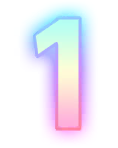
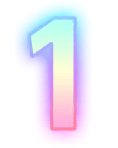
Play combo digits with the official pop and AP 1 padding.
OnCount scales ComboCount from Combo_anim; OnFire overlays hundreds. The AP 1
skin is rebuilt from the official atlas textureRectOffset inside the 118×148 slot.

Changed region(s): [[0.178, 0.1081, 0.5085, 0.8919], [0.6102, 0.0811, 0.7627, 0.8919]]

diff --git a/ui/src/regions/preview/playback_preview.cpp b/ui/src/regions/preview/playback_preview.cpp
@@ -4462,8 +4462,12 @@ void PlaybackPreviewView::draw_combo(DrawBatch& batch, const PreviewSnapshot& sn
     }
   }
 
+  using wds::chart_render::kOpenWdsComboCountAnimDuration;
+  using wds::chart_render::kOpenWdsComboCountPivotX;
+  using wds::chart_render::kOpenWdsComboCountPivotY;
   using wds::chart_render::kOpenWdsComboDigitH;
   using wds::chart_render::kOpenWdsComboDigitW;
+  using wds::chart_render::kOpenWdsComboFireAnimDuration;
   using wds::chart_render::kOpenWdsComboHeight;
   using wds::chart_render::kOpenWdsComboLabelH;
   using wds::chart_render::kOpenWdsComboLabelW;
@@ -4473,40 +4477,83 @@ void PlaybackPreviewView::draw_combo(DrawBatch& batch, const PreviewSnapshot& sn
   using wds::chart_render::kOpenWdsHudRefHeight;
   using wds::chart_render::kOpenWdsHudRefWidth;
   using wds::chart_render::openwds_canvas_map;
+  using wds::chart_render::openwds_combo_count_scale;
   using wds::chart_render::openwds_combo_digit_xs;
+  using wds::chart_render::openwds_combo_fire_alpha;
+  using wds::chart_render::openwds_combo_fire_scale;
+  using wds::chart_render::openwds_scale_about;
 
   const auto& content = geometry_.content();
   const auto canvas = openwds_canvas_map(content.l, content.r, content.b, content.t);
   const float combo_right = canvas.x(kOpenWdsHudRefWidth + kOpenWdsComboPosX);
   const float combo_bottom = canvas.y(0.5f * kOpenWdsHudRefHeight + kOpenWdsComboPosY);
-  const float combo_top = combo_bottom + canvas.scale * kOpenWdsComboHeight;
-  const float combo_left = combo_right - canvas.scale * kOpenWdsComboWidth;
+  const float combo_h = canvas.scale * kOpenWdsComboHeight;
+  const float combo_w = canvas.scale * kOpenWdsComboWidth;
+  const float combo_top = combo_bottom + combo_h;
+  const float combo_left = combo_right - combo_w;
   const float digit_w = canvas.scale * kOpenWdsComboDigitW;
   const float digit_h = canvas.scale * kOpenWdsComboDigitH;
   const float label_w = canvas.scale * kOpenWdsComboLabelW;
   const float label_h = canvas.scale * kOpenWdsComboLabelH;
+  // ComboCount pivot (0.5, 0.5) of the Combo root rect. Combo_anim scales this
+  // transform; ComboLabel is a sibling and stays unscaled.
+  const float pivot_x = combo_left + kOpenWdsComboCountPivotX * combo_w;
+  const float pivot_y = combo_bottom + kOpenWdsComboCountPivotY * combo_h;
 
-  int digits = 1;
-  for (int32_t n = snapshot.combo_count; n >= 10 && digits < 4; n /= 10) {
-    ++digits;
-  }
-  int xs_n = 0;
-  const float* xs = openwds_combo_digit_xs(digits, xs_n);
+  auto draw_digits = [&](int32_t number, float sx, float sy, float a, float z) {
+    int digits = 1;
+    for (int32_t n = number; n >= 10 && digits < 4; n /= 10) {
+      ++digits;
+    }
+    int xs_n = 0;
+    const float* xs = openwds_combo_digit_xs(digits, xs_n);
+    int32_t remaining = number;
+    for (int i = 0; i < xs_n; ++i) {
+      const int digit = remaining % 10;
+      remaining /= 10;
+      const float right = combo_right + canvas.scale * xs[i];
+      const float left = right - digit_w;
+      float x0 = left;
+      float y0 = combo_bottom;
+      float x1 = left;
+      float y1 = combo_bottom + digit_h;
+      float x2 = right;
+      float y2 = combo_bottom + digit_h;
+      float x3 = right;
+      float y3 = combo_bottom;
+      openwds_scale_about(pivot_x, pivot_y, sx, sy, x0, y0);
+      openwds_scale_about(pivot_x, pivot_y, sx, sy, x1, y1);
+      openwds_scale_about(pivot_x, pivot_y, sx, sy, x2, y2);
+      openwds_scale_about(pivot_x, pivot_y, sx, sy, x3, y3);
+      Quad q{{x0, y0}, {x1, y1}, {x2, y2}, {x3, y3}};
+      batch.add_sprite(skin_.combo_ap_digit[digit], q, z, a);
+    }
+  };
 
-  int32_t remaining = snapshot.combo_count;
   const float alpha = config_.combo_alpha;
   constexpr float kZ = 0.98f;
-  for (int i = 0; i < xs_n; ++i) {
-    const int digit = remaining % 10;
-    remaining /= 10;
-    const float right = combo_right + canvas.scale * xs[i];
-    const float left = right - digit_w;
-    Quad q{{left, combo_bottom},
-           {left, combo_bottom + digit_h},
-           {right, combo_bottom + digit_h},
-           {right, combo_bottom}};
-    batch.add_sprite(skin_.combo_ap_digit[digit], q, kZ, alpha);
+  const double now_sec = preview_now_sec(snapshot);
+
+  // ComboCountPer100 is drawn under ComboCount (Combo.prefab sibling order).
+  if (snapshot.combo_count >= 100 && snapshot.last_combo_fire_ms >= 0) {
+    const float fire_age =
+        static_cast<float>(now_sec - static_cast<double>(snapshot.last_combo_fire_ms) / 1000.0);
+    if (fire_age >= 0.0f && fire_age < kOpenWdsComboFireAnimDuration) {
+      const auto fire_s = openwds_combo_fire_scale(fire_age);
+      const float fire_a = openwds_combo_fire_alpha(fire_age) * alpha;
+      if (fire_a > 0.001f) {
+        draw_digits((snapshot.combo_count / 100) * 100, fire_s.x, fire_s.y, fire_a, kZ - 0.001f);
+      }
+    }
   }
+
+  float count_age = kOpenWdsComboCountAnimDuration;
+  if (snapshot.last_judge_ms >= 0) {
+    count_age =
+        static_cast<float>(now_sec - static_cast<double>(snapshot.last_judge_ms) / 1000.0);
+  }
+  const auto count_s = openwds_combo_count_scale(count_age);
+  draw_digits(snapshot.combo_count, count_s.x, count_s.y, alpha, kZ);
 
   const float label_cx = 0.5f * (combo_left + combo_right);
   const float label_left = label_cx - 0.5f * label_w;

diff --git a/chart-render/include/wds/chart_render/openwds_hud_layout.hpp b/chart-render/include/wds/chart_render/openwds_hud_layout.hpp
@@ -28,6 +28,129 @@ inline constexpr float kOpenWdsComboDigitXs2[] = {-92.0f, -184.0f};
 inline constexpr float kOpenWdsComboDigitXs3[] = {-46.0f, -138.0f, -230.0f};
 inline constexpr float kOpenWdsComboDigitXs4[] = {0.0f, -92.0f, -184.0f, -276.0f};
 
+// ComboCount / ComboCountPer100 stretch-fill Combo root; scale about this pivot.
+// Combo.prefab ComboCount m_Pivot (0.5, 0.5). ComboLabel is a sibling — do not scale it.
+inline constexpr float kOpenWdsComboCountPivotX = 0.5f;
+inline constexpr float kOpenWdsComboCountPivotY = 0.5f;
+
+// Combo_animator Count Layer: Any State → Combo_anim on OnCount
+// (transition duration 0, CanTransitionToSelf 1). Clip LoopTime 0, StopTime 10/60.
+// Keys: Assets/Resources/Animation/Game/Combo_anim.anim Scale ComboCount.
+inline constexpr float kOpenWdsComboCountAnimDuration = 0.16666667f;
+
+// Combo_animator Base Layer: Any State → Combo_countper100_anim on OnFire
+// when combo/100 changes. Clip LoopTime 0, StopTime 0.25.
+// Keys: Assets/Resources/Animation/Game/Combo_countper100_anim.anim.
+inline constexpr float kOpenWdsComboFireAnimDuration = 0.25f;
+
+struct OpenWdsAnimKey {
+  float t = 0.0f;
+  float v = 0.0f;
+  float in_s = 0.0f;
+  float out_s = 0.0f;
+};
+
+struct OpenWdsComboScale {
+  float x = 1.0f;
+  float y = 1.0f;
+};
+
+// Unity 2022.3 AnimationCurve cubic Hermite (slopes are dValue/dTime).
+// https://docs.unity3d.com/2022.3/Documentation/Manual/animeditor-AnimationCurves.html
+// Clip LoopTime 0: sample min(max(time, first), last) — hold the last key.
+inline float openwds_eval_clip_curve(const OpenWdsAnimKey* keys, int count, float time) noexcept {
+  if (keys == nullptr || count <= 0) {
+    return 0.0f;
+  }
+  if (time <= keys[0].t) {
+    return keys[0].v;
+  }
+  if (time >= keys[count - 1].t) {
+    return keys[count - 1].v;
+  }
+  for (int i = 1; i < count; ++i) {
+    if (time > keys[i].t) {
+      continue;
+    }
+    const OpenWdsAnimKey& a = keys[i - 1];
+    const OpenWdsAnimKey& b = keys[i];
+    const float dt = b.t - a.t;
+    if (dt <= 1e-8f) {
+      return b.v;
+    }
+    if (!std::isfinite(a.out_s) || !std::isfinite(b.in_s)) {
+      return a.v;
+    }
+    const float u = (time - a.t) / dt;
+    const float u2 = u * u;
+    const float u3 = u2 * u;
+    const float h00 = 2.0f * u3 - 3.0f * u2 + 1.0f;
+    const float h10 = u3 - 2.0f * u2 + u;
+    const float h01 = -2.0f * u3 + 3.0f * u2;
+    const float h11 = u3 - u2;
+    const float y = h00 * a.v + h10 * (a.out_s * dt) + h01 * b.v + h11 * (b.in_s * dt);
+    return std::isfinite(y) ? y : a.v + (b.v - a.v) * u;
+  }
+  return keys[count - 1].v;
+}
+
+inline OpenWdsComboScale openwds_combo_count_scale(float age_sec) noexcept {
+  // Combo_anim.anim m_ScaleCurves path ComboCount (11 keys @ 60 fps).
+  constexpr OpenWdsAnimKey kX[] = {
+      {0.0f, 0.8f, 0.0f, 5.3884397f},
+      {0.016666668f, 0.88980734f, 5.3884397f, 2.991936f},
+      {0.033333335f, 0.93967295f, 2.991936f, 2.276223f},
+      {0.05f, 0.97761f, 2.276223f, 1.8559166f},
+      {0.06666667f, 1.008542f, 1.8559166f, 1.5492083f},
+      {0.083333336f, 1.0343621f, 1.5492083f, 1.2938548f},
+      {0.1f, 1.0559263f, 1.2938548f, 1.0584213f},
+      {0.11666667f, 1.0735667f, 1.0584215f, 0.81984013f},
+      {0.13333334f, 1.0872307f, 0.81984013f, 0.55260664f},
+      {0.15f, 1.0964408f, 0.55260664f, 0.21355392f},
+      {0.16666667f, 1.1f, 0.21355392f, 0.0f},
+  };
+  constexpr OpenWdsAnimKey kY[] = {
+      {0.0f, 0.8f, 0.0f, 5.3237376f},
+      {0.016666668f, 0.888729f, 5.3237376f, 2.9964242f},
+      {0.033333335f, 0.9386694f, 2.9964242f, 2.2858074f},
+      {0.05f, 0.97676617f, 2.2858074f, 1.8665203f},
+      {0.06666667f, 1.0078748f, 1.8665203f, 1.5595866f},
+      {0.083333336f, 1.033868f, 1.5595866f, 1.303382f},
+      {0.1f, 1.055591f, 1.303382f, 1.0665895f},
+      {0.11666667f, 1.0733675f, 1.0665895f, 0.8262417f},
+      {0.13333334f, 1.0871382f, 0.8262417f, 0.5567551f},
+      {0.15f, 1.0964174f, 0.5567551f, 0.21495582f},
+      {0.16666667f, 1.1f, 0.21495582f, 0.0f},
+  };
+  OpenWdsComboScale s;
+  s.x = openwds_eval_clip_curve(kX, 11, age_sec);
+  s.y = openwds_eval_clip_curve(kY, 11, age_sec);
+  return s;
+}
+
+inline OpenWdsComboScale openwds_combo_fire_scale(float age_sec) noexcept {
+  constexpr OpenWdsAnimKey kS[] = {
+      {0.0f, 1.0f, 0.0f, 4.0f},
+      {0.25f, 2.0f, 0.0f, 0.0f},
+  };
+  const float v = openwds_eval_clip_curve(kS, 2, age_sec);
+  return {v, v};
+}
+
+inline float openwds_combo_fire_alpha(float age_sec) noexcept {
+  constexpr OpenWdsAnimKey kA[] = {
+      {0.0f, 0.0f, 0.0f, 56.0703f},
+      {0.05f, 1.0f, -4.236987e-6f, -11.88784f},
+      {0.25f, 0.0f, -1.0913026e-6f, 0.0f},
+  };
+  return openwds_eval_clip_curve(kA, 3, age_sec);
+}
+
+inline void openwds_scale_about(float px, float py, float sx, float sy, float& x, float& y) noexcept {
+  x = px + (x - px) * sx;
+  y = py + (y - py) * sy;
+}
+
 // CreateOfflineRhythmPreviewScene Game/Effects: (0, −0.46, 10), then
 // GameHudRuntime overwrites Y with CalculatePositionY(offset).
 inline constexpr float kOpenWdsEffectsWorldX = 0.0f;

diff --git a/chart-render/tests/note_visual_policy_tests.cpp b/chart-render/tests/note_visual_policy_tests.cpp
@@ -1,4 +1,5 @@
 #include <wds/chart_render/note_visual_policy.hpp>
+#include <wds/chart_render/openwds_hud_layout.hpp>
 #include <wds/chart_render/skin_catalog.hpp>
 
 #include <algorithm>
@@ -224,6 +225,50 @@ void test_hold_tail_layers() {
   assert(scratch.is_scratch_family);
 }
 
+void test_combo_count_anim_matches_openwds_clip() {
+  using wds::chart_render::kOpenWdsComboCountAnimDuration;
+  using wds::chart_render::kOpenWdsComboFireAnimDuration;
+  using wds::chart_render::openwds_combo_count_scale;
+  using wds::chart_render::openwds_combo_fire_alpha;
+  using wds::chart_render::openwds_combo_fire_scale;
+  using wds::chart_render::openwds_scale_about;
+
+  const auto at0 = openwds_combo_count_scale(0.0f);
+  CHECK(std::fabs(at0.x - 0.8f) < 1e-6f);
+  CHECK(std::fabs(at0.y - 0.8f) < 1e-6f);
+  const auto at_frame1 = openwds_combo_count_scale(0.016666668f);
+  CHECK(std::fabs(at_frame1.x - 0.88980734f) < 1e-6f);
+  CHECK(std::fabs(at_frame1.y - 0.888729f) < 1e-6f);
+  const auto at_end = openwds_combo_count_scale(kOpenWdsComboCountAnimDuration);
+  CHECK(std::fabs(at_end.x - 1.1f) < 1e-6f);
+  CHECK(std::fabs(at_end.y - 1.1f) < 1e-6f);
+  const auto held = openwds_combo_count_scale(1.0f);
+  CHECK(std::fabs(held.x - 1.1f) < 1e-6f);
+  CHECK(std::fabs(held.y - 1.1f) < 1e-6f);
+  const auto mid = openwds_combo_count_scale(0.08f);
+  CHECK(mid.x > 0.8f && mid.x < 1.1f);
+  CHECK(mid.y > 0.8f && mid.y < 1.1f);
+
+  CHECK(std::fabs(openwds_combo_fire_alpha(0.0f)) < 1e-5f);
+  CHECK(std::fabs(openwds_combo_fire_alpha(0.05f) - 1.0f) < 1e-5f);
+  CHECK(std::fabs(openwds_combo_fire_alpha(kOpenWdsComboFireAnimDuration)) < 1e-5f);
+  const auto fire0 = openwds_combo_fire_scale(0.0f);
+  CHECK(std::fabs(fire0.x - 1.0f) < 1e-6f);
+  const auto fire_end = openwds_combo_fire_scale(kOpenWdsComboFireAnimDuration);
+  CHECK(std::fabs(fire_end.x - 2.0f) < 1e-6f);
+
+  float x = 10.0f;
+  float y = 20.0f;
+  openwds_scale_about(10.0f, 20.0f, 2.0f, 3.0f, x, y);
+  CHECK(std::fabs(x - 10.0f) < 1e-6f);
+  CHECK(std::fabs(y - 20.0f) < 1e-6f);
+  x = 12.0f;
+  y = 24.0f;
+  openwds_scale_about(10.0f, 20.0f, 2.0f, 0.5f, x, y);
+  CHECK(std::fabs(x - 14.0f) < 1e-6f);
+  CHECK(std::fabs(y - 22.0f) < 1e-6f);
+}
+
 }  // namespace
 
 int main() {
@@ -237,6 +282,7 @@ int main() {
   test_one_way_fills_without_tail_or_uv_clip();
   test_official_scratch_arrow_table();
   test_hold_tail_layers();
+  test_combo_count_anim_matches_openwds_clip();
   std::puts("note_visual_policy_tests OK");
   return 0;
 }

diff --git a/core/tests/chart_editor_tests.cpp b/core/tests/chart_editor_tests.cpp
@@ -1379,6 +1379,31 @@ void test_split_gimmick_range_and_combo_includes_heads() {
   const PreviewComboState combo = compute_preview_combo(notes, timing, at);
   // 2 taps + HoldStart + HoldEighth + Hold tail
   CHECK_EQ(combo.combo, 5);
+  CHECK_EQ(combo.last_combo_fire_ms, static_cast<int64_t>(-1));
+}
+
+void test_combo_hundreds_fire_ms_is_crossing_hit() {
+  std::vector<int64_t> hits;
+  hits.reserve(250);
+  for (int i = 0; i < 250; ++i) {
+    hits.push_back(static_cast<int64_t>(i) * 10);
+  }
+  const PreviewComboState at99 = combo_from_sorted_hits(hits, 980);
+  CHECK_EQ(at99.combo, 99);
+  CHECK_EQ(at99.last_combo_fire_ms, static_cast<int64_t>(-1));
+
+  const PreviewComboState at100 = combo_from_sorted_hits(hits, 990);
+  CHECK_EQ(at100.combo, 100);
+  CHECK_EQ(at100.last_judge_ms, static_cast<int64_t>(990));
+  CHECK_EQ(at100.last_combo_fire_ms, static_cast<int64_t>(990));
+
+  const PreviewComboState at150 = combo_from_sorted_hits(hits, 1490);
+  CHECK_EQ(at150.combo, 150);
+  CHECK_EQ(at150.last_combo_fire_ms, static_cast<int64_t>(990));
+
+  const PreviewComboState at200 = combo_from_sorted_hits(hits, 1990);
+  CHECK_EQ(at200.combo, 200);
+  CHECK_EQ(at200.last_combo_fire_ms, static_cast<int64_t>(1990));
 }
 
 void test_split_appear_phase_before_start_ms() {
@@ -10091,6 +10116,7 @@ int main() {
   test_snapshot_large_seek_full_rebuild();
   test_snapshot_sub_ms_timeline_us_survives_rebuild_and_patch();
   test_split_gimmick_range_and_combo_includes_heads();
+  test_combo_hundreds_fire_ms_is_crossing_hit();
   test_hold_combo_reference_fixed_cases();
   test_hold_combo_sabotage_detects_wrong_oracle();
   test_hold_combo_production_matches_reference_random();

diff --git a/core/src/preview_snapshot_builder.cpp b/core/src/preview_snapshot_builder.cpp
@@ -538,6 +538,7 @@ void PreviewSnapshotBuilder::build_into(
   const PreviewComboState combo = combo_from_sorted_hits(cached_combo_hits_, preview_time_ms);
   out.combo_count = combo.combo;
   out.last_judge_ms = combo.last_judge_ms;
+  out.last_combo_fire_ms = combo.last_combo_fire_ms;
 }
 
 void PreviewSnapshotBuilder::update_incremental(
@@ -563,6 +564,7 @@ void PreviewSnapshotBuilder::update_incremental(
   const PreviewComboState combo = combo_from_sorted_hits(cached_combo_hits_, preview_time_ms);
   inout.combo_count = combo.combo;
   inout.last_judge_ms = combo.last_judge_ms;
+  inout.last_combo_fire_ms = combo.last_combo_fire_ms;
 }
 
 void PreviewSnapshotBuilder::rebuild_or_update(

diff --git a/core/src/notation.cpp b/core/src/notation.cpp
@@ -654,6 +654,11 @@ PreviewComboState combo_from_sorted_hits(const std::vector<int64_t>& sorted_hits
   state.combo = static_cast<int32_t>(it - sorted_hits.begin());
   if (state.combo > 0) {
     state.last_judge_ms = *(it - 1);
+    const int32_t hundreds = state.combo / 100;
+    if (hundreds > 0) {
+      const size_t fire_i = static_cast<size_t>(hundreds * 100 - 1);
+      state.last_combo_fire_ms = sorted_hits[fire_i];
+    }
   }
   return state;
 }

diff --git a/core/include/wds/core/notation.hpp b/core/include/wds/core/notation.hpp
@@ -350,6 +350,9 @@ void collect_hold_body_judge_times(const NotationNote& hold,
 struct PreviewComboState {
   int32_t combo = 0;
   int64_t last_judge_ms = -1;
+  // Time of the hit that crossed the current hundreds (100, 200, …).
+  // ComboPanel.SetComboCount OnFire / Combo_countper100_anim.
+  int64_t last_combo_fire_ms = -1;
 };
 
 // All auto-preview combo hit times, sorted (seek-safe). Hold soft judges come

diff --git a/core/include/wds/core/preview_snapshot.hpp b/core/include/wds/core/preview_snapshot.hpp
@@ -143,6 +143,7 @@ struct PreviewSnapshot {
   // Auto-preview combo (seek-safe); updated each snapshot rebuild.
   int32_t combo_count = 0;
   int64_t last_judge_ms = -1;
+  int64_t last_combo_fire_ms = -1;
 
   SnapshotUpdateStrategy last_update_strategy = SnapshotUpdateStrategy::FullRebuild;
 
